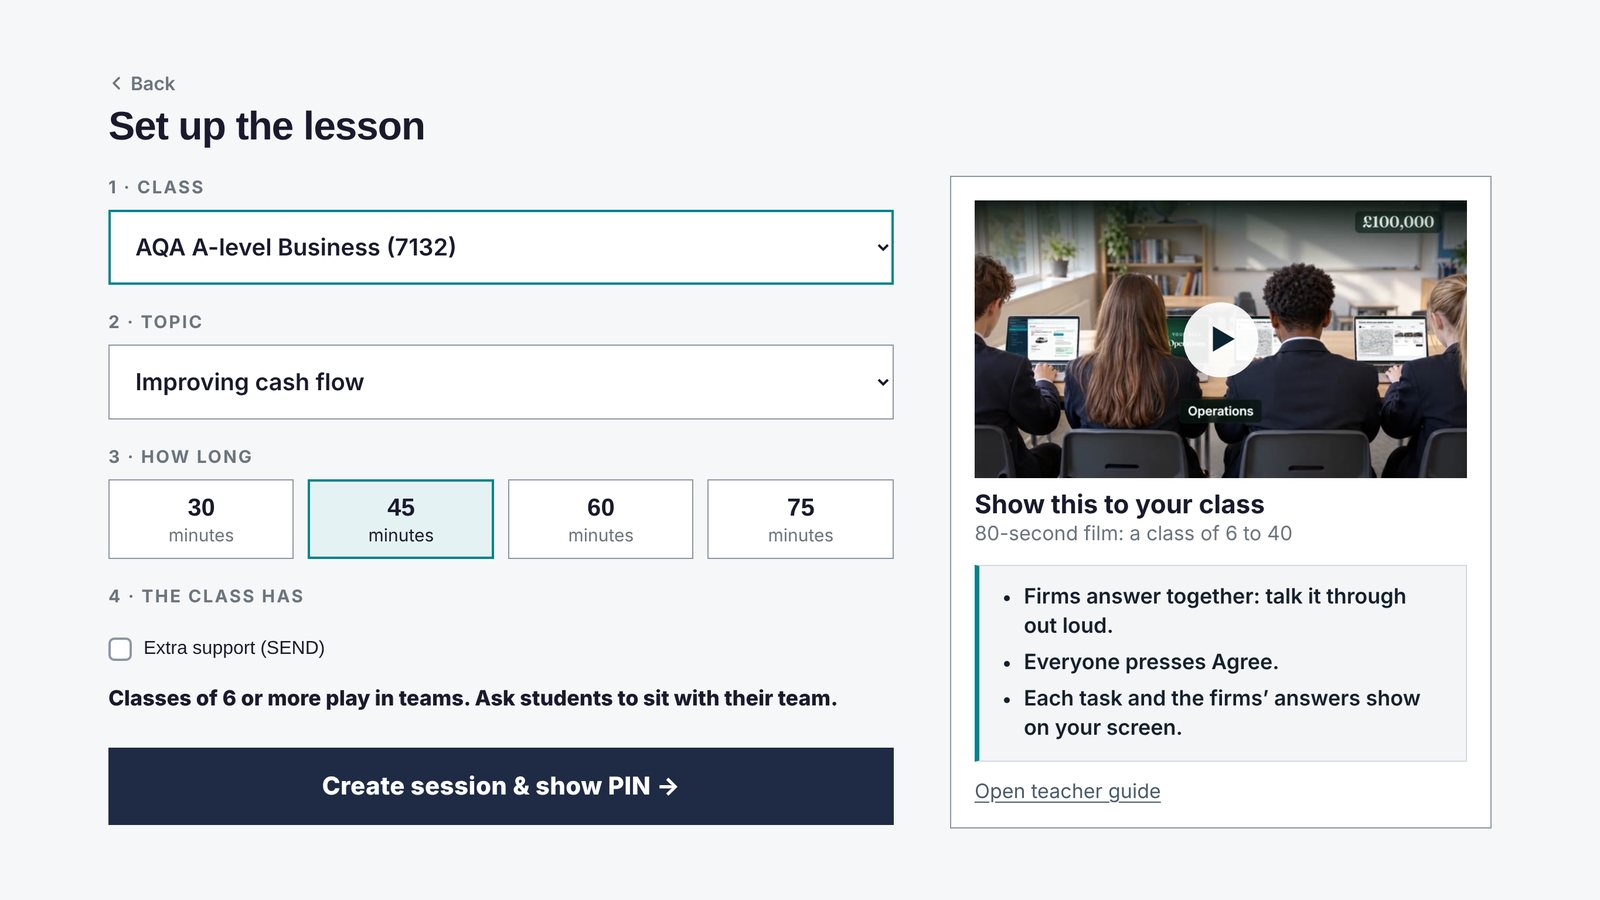
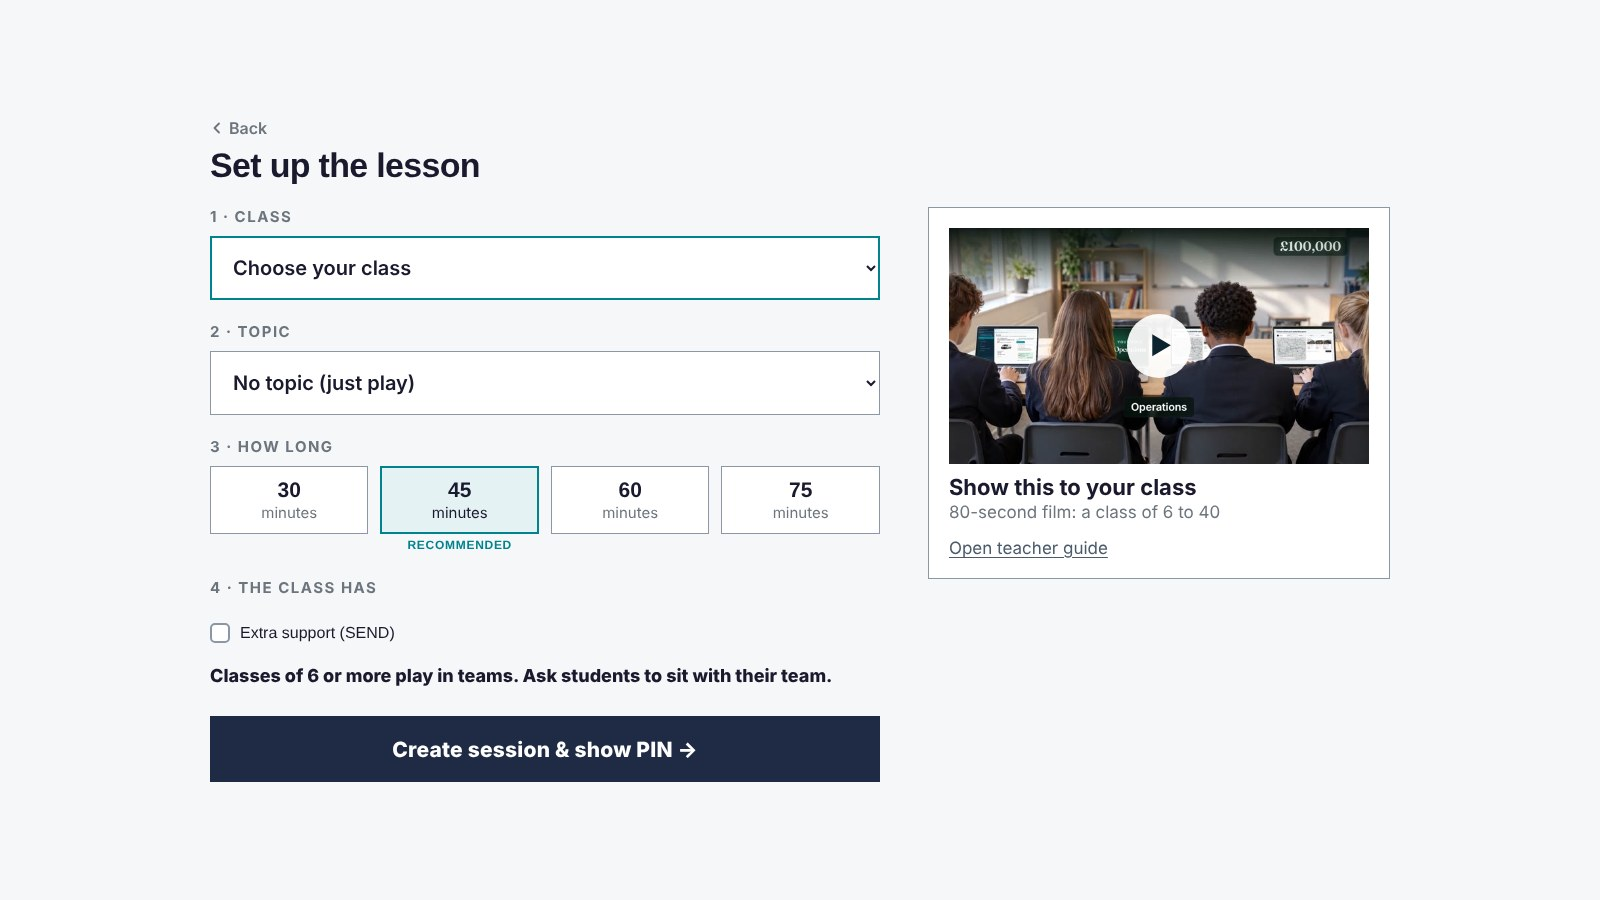
UK: one lesson per topic per class (tasks stay the same), no-topic lessons any time; end-of-lesson writing removed from the gallery and copy; setup picture re-shot from the live game (owner 10.11.2026)
Claude-Session: https://claude.ai/code/session_01Np2n7mwxyzcaQWByNZ1ReD

diff --git a/index.html b/index.html
@@ -640,7 +640,7 @@
         <figcaption>The whole class joins with one PIN.</figcaption>
       </figure>
       <figure class="motor-gal-item">
-        <img src="/assets/tbs-web/uk/uk-g-setup.jpg?v=20261110" width="1600" height="900" loading="lazy" decoding="async" alt="Teacher lesson setup: the class, the topic and the lesson length of 30, 45, 60 or 75 minutes" />
+        <img src="/assets/tbs-web/uk/uk-g-setup.jpg?v=20261110d" width="1600" height="900" loading="lazy" decoding="async" alt="Teacher lesson setup: the class, the topic and the lesson length of 30, 45, 60 or 75 minutes" />
         <figcaption>You pick the class, the topic and the lesson length.</figcaption>
       </figure>
       <figure class="motor-gal-item">
@@ -704,10 +704,6 @@
         <figcaption>Each task and every firm's answer, on your Live screen.</figcaption>
       </figure>
       <figure class="motor-gal-item">
-        <img src="/assets/tbs-web/uk/uk-g-end-writing.jpg?v=20261110" width="1600" height="900" loading="lazy" decoding="async" alt="At the end: after the final questions, one short written answer on the topic, with a Send button" />
-        <figcaption>At the end: final questions, then one short written answer.</figcaption>
-      </figure>
-      <figure class="motor-gal-item">
         <img src="/assets/tbs-web/uk/uk-g-podium.jpg?v=20261110" width="1600" height="900" loading="lazy" decoding="async" alt="The podium at the end: the top three firms and every firm's final net position" />
         <figcaption>At the end the podium shows the winner.</figcaption>
       </figure>
@@ -733,6 +729,7 @@
           <li style="display:flex;gap:12px;font-size:19px;line-height:1.4;color:#16233f;font-weight:500"><svg style="color:#0a6b73;flex:0 0 auto;margin-top:4px" width="22" height="22" viewBox="0 0 24 24" fill="none"><path d="M5 12l4 4L19 7" stroke="currentColor" stroke-width="2.4" stroke-linecap="round" stroke-linejoin="round"/></svg><span>Pick your exam board, level and topic: up to 20 topics, matched to your exam board.</span></li>
           <li style="display:flex;gap:12px;font-size:19px;line-height:1.4;color:#16233f;font-weight:500"><svg style="color:#0a6b73;flex:0 0 auto;margin-top:4px" width="22" height="22" viewBox="0 0 24 24" fill="none"><path d="M5 12l4 4L19 7" stroke="currentColor" stroke-width="2.4" stroke-linecap="round" stroke-linejoin="round"/></svg><span>Each firm gets its own tasks. The firm agrees one answer.</span></li>
           <li style="display:flex;gap:12px;font-size:19px;line-height:1.4;color:#16233f;font-weight:500"><svg style="color:#0a6b73;flex:0 0 auto;margin-top:4px" width="22" height="22" viewBox="0 0 24 24" fill="none"><path d="M5 12l4 4L19 7" stroke="currentColor" stroke-width="2.4" stroke-linecap="round" stroke-linejoin="round"/></svg><span>Your dashboard shows which firms got each task right.</span></li>
+          <li style="display:flex;gap:12px;font-size:19px;line-height:1.4;color:#16233f;font-weight:500"><svg style="color:#0a6b73;flex:0 0 auto;margin-top:4px" width="22" height="22" viewBox="0 0 24 24" fill="none"><path d="M5 12l4 4L19 7" stroke="currentColor" stroke-width="2.4" stroke-linecap="round" stroke-linejoin="round"/></svg><span>Play each topic once with a class: its tasks stay the same. A lesson with no topic can be played any time.</span></li>
         </ul>
         <div style="display:flex;flex-wrap:wrap;gap:12px">
         <a href="/teacher-guides/" style="display:inline-flex;align-items:center;gap:8px;font-weight:700;font-size:16px;padding:13px 24px;border-radius:10px;text-decoration:none;background:#0a6b73;color:#fff">See every lesson topic</a>
@@ -846,7 +843,7 @@
       <p style="color:#40506e;font-size:16.5px">A revision lesson at the end of each topic, or a business activity any time (No topic).</p>
       <p style="color:#40506e;font-size:16.5px;margin-top:10px">The lesson runs step by step. The whole class works on the same step at the same time, and your screen shows how many firms are done.</p>
     </div>
-    <div class="hs-wrap"><div class="hs"><div class="hs-list" role="tablist" aria-label="How a lesson runs"><button class="hs-item" type="button" role="tab" aria-selected="true" data-i="0"><span class="hs-n">01</span><span><span class="hs-t">Students join with a PIN</span><span class="hs-d">You pick the class and the lesson length. The whole class joins with one PIN.</span></span></button><button class="hs-item" type="button" role="tab" aria-selected="false" data-i="1"><span class="hs-n">02</span><span><span class="hs-t">Each firm votes where to open</span><span class="hs-d">Everyone votes. Most votes wins.</span></span></button><button class="hs-item" type="button" role="tab" aria-selected="false" data-i="2"><span class="hs-n">03</span><span><span class="hs-t">Everyone deals</span><span class="hs-d">Students buy, price and negotiate face to face.</span></span></button><button class="hs-item" type="button" role="tab" aria-selected="false" data-i="3"><span class="hs-n">04</span><span><span class="hs-t">Every round, the same order</span><span class="hs-d">Firm decisions, deals with classmates, topic tasks, then a B2B deal between firms.</span></span></button><button class="hs-item" type="button" role="tab" aria-selected="false" data-i="4"><span class="hs-n">05</span><span><span class="hs-t">You see every firm live</span><span class="hs-d">Pause and Stop are one click away.</span></span></button><button class="hs-item" type="button" role="tab" aria-selected="false" data-i="5"><span class="hs-n">06</span><span><span class="hs-t">Questions, then the winner</span><span class="hs-d">Six final questions and one short written answer, then the podium.</span></span></button><button class="hs-item" type="button" role="tab" aria-selected="false" data-i="6"><span class="hs-n">07</span><span><span class="hs-t">Every student gets a report</span><span class="hs-d">You download the class pack.</span></span></button></div><div class="hs-view"><div class="hs-frame"><i class="hs-corner tl"></i><i class="hs-corner tr"></i><i class="hs-corner bl"></i><i class="hs-corner br"></i><div class="hs-stack"><img class="hs-img on" src="/assets/tbs-web/howto/1-join.jpg?v=20261110" alt="Students join with a PIN" width="1100" height="619"><img class="hs-img" src="/assets/tbs-web/howto/2-location.jpg?v=20261110" alt="Each firm votes where to open" loading="lazy" width="1100" height="619"><img class="hs-img" src="/assets/tbs-web/howto/3-deal.jpg?v=20261110" alt="Everyone deals" loading="lazy" width="1100" height="619"><img class="hs-img" src="/assets/tbs-web/howto/3b-margin.jpg?v=20261110" alt="Every round, the same order" loading="lazy" width="1100" height="619"><img class="hs-img" src="/assets/tbs-web/howto/4-teacher.jpg?v=20261110" alt="You see every firm live" loading="lazy" width="1100" height="619"><img class="hs-img" src="/assets/tbs-web/howto/5-winner.jpg?v=20261110" alt="Questions, then the winner" loading="lazy" width="1100" height="619"><img class="hs-img" src="/assets/tbs-web/howto/6-report.jpg?v=20261110" alt="Every student gets a report" loading="lazy" width="1100" height="619"></div><div class="hs-bar"><i></i></div></div><p class="hs-cap" aria-live="polite"></p></div></div></div>
+    <div class="hs-wrap"><div class="hs"><div class="hs-list" role="tablist" aria-label="How a lesson runs"><button class="hs-item" type="button" role="tab" aria-selected="true" data-i="0"><span class="hs-n">01</span><span><span class="hs-t">Students join with a PIN</span><span class="hs-d">You pick the class and the lesson length. The whole class joins with one PIN.</span></span></button><button class="hs-item" type="button" role="tab" aria-selected="false" data-i="1"><span class="hs-n">02</span><span><span class="hs-t">Each firm votes where to open</span><span class="hs-d">Everyone votes. Most votes wins.</span></span></button><button class="hs-item" type="button" role="tab" aria-selected="false" data-i="2"><span class="hs-n">03</span><span><span class="hs-t">Everyone deals</span><span class="hs-d">Students buy, price and negotiate face to face.</span></span></button><button class="hs-item" type="button" role="tab" aria-selected="false" data-i="3"><span class="hs-n">04</span><span><span class="hs-t">Every round, the same order</span><span class="hs-d">Firm decisions, deals with classmates, topic tasks, then a B2B deal between firms.</span></span></button><button class="hs-item" type="button" role="tab" aria-selected="false" data-i="4"><span class="hs-n">05</span><span><span class="hs-t">You see every firm live</span><span class="hs-d">Pause and Stop are one click away.</span></span></button><button class="hs-item" type="button" role="tab" aria-selected="false" data-i="5"><span class="hs-n">06</span><span><span class="hs-t">Questions, then the winner</span><span class="hs-d">Six final questions, then the podium.</span></span></button><button class="hs-item" type="button" role="tab" aria-selected="false" data-i="6"><span class="hs-n">07</span><span><span class="hs-t">Every student gets a report</span><span class="hs-d">You download the class pack.</span></span></button></div><div class="hs-view"><div class="hs-frame"><i class="hs-corner tl"></i><i class="hs-corner tr"></i><i class="hs-corner bl"></i><i class="hs-corner br"></i><div class="hs-stack"><img class="hs-img on" src="/assets/tbs-web/howto/1-join.jpg?v=20261110" alt="Students join with a PIN" width="1100" height="619"><img class="hs-img" src="/assets/tbs-web/howto/2-location.jpg?v=20261110" alt="Each firm votes where to open" loading="lazy" width="1100" height="619"><img class="hs-img" src="/assets/tbs-web/howto/3-deal.jpg?v=20261110" alt="Everyone deals" loading="lazy" width="1100" height="619"><img class="hs-img" src="/assets/tbs-web/howto/3b-margin.jpg?v=20261110" alt="Every round, the same order" loading="lazy" width="1100" height="619"><img class="hs-img" src="/assets/tbs-web/howto/4-teacher.jpg?v=20261110" alt="You see every firm live" loading="lazy" width="1100" height="619"><img class="hs-img" src="/assets/tbs-web/howto/5-winner.jpg?v=20261110" alt="Questions, then the winner" loading="lazy" width="1100" height="619"><img class="hs-img" src="/assets/tbs-web/howto/6-report.jpg?v=20261110" alt="Every student gets a report" loading="lazy" width="1100" height="619"></div><div class="hs-bar"><i></i></div></div><p class="hs-cap" aria-live="polite"></p></div></div></div>
     <div style="display:flex;gap:14px;justify-content:center;flex-wrap:wrap;margin-top:8px">
       <a href="/trial/" style="display:inline-block;background:#0a6b73;color:#fff;font-weight:700;border-radius:12px;padding:19px 38px;text-decoration:none;font-size:20px;box-shadow:0 8px 24px rgba(10,107,115,.35)">Request a trial</a>
       <a href="https://play.thebusiness.school/demo/group-classroom/" style="display:inline-block;background:#fff;color:#0e2038;border:1px solid #c9d3df;font-weight:700;border-radius:12px;padding:19px 30px;text-decoration:none;font-size:18px">Try the Teacher Demo</a>
@@ -876,7 +873,7 @@
       <div style="padding:28px;border:1px solid #e3e9f1;border-radius:12px;background:#fff">
         <span style="font-size:11px;font-weight:700;letter-spacing:.1em;text-transform:uppercase;color:#0a6b73">Own words</span>
         <h4 style="font-weight:700;font-size:16.5px;color:#0e2038;margin:8px 0 6px">What they wrote</h4>
-        <p style="font-size:14.5px;color:#40506e">Their written answers from the lesson and their reflection at the end.</p>
+        <p style="font-size:14.5px;color:#40506e">Their firm's answers to the topic tasks.</p>
       </div>
     </div>
   </div>

diff --git a/pricing/index.html b/pricing/index.html
@@ -105,6 +105,7 @@
         <h2 style="font-family:'Fraunces',Georgia,serif;font-weight:600;font-size:clamp(24px,2.9vw,32px);color:#0e2038;line-height:1.15;letter-spacing:-.01em;margin-bottom:16px">What every licence includes</h2>
         <ul style="list-style:none;display:flex;flex-direction:column;gap:13px">
           <li style="display:flex;gap:11px;font-size:15.5px;color:#40506e"><svg style="color:#0a6b73;flex:0 0 auto;margin-top:3px" width="18" height="18" viewBox="0 0 24 24" fill="none"><path d="M5 12l4 4L19 7" stroke="currentColor" stroke-width="2.4" stroke-linecap="round" stroke-linejoin="round"/></svg><span>Unlimited sessions and classes, up to 40 students per session</span></li>
+          <li style="display:flex;gap:11px;font-size:15.5px;color:#40506e"><svg style="color:#0a6b73;flex:0 0 auto;margin-top:3px" width="18" height="18" viewBox="0 0 24 24" fill="none"><path d="M5 12l4 4L19 7" stroke="currentColor" stroke-width="2.4" stroke-linecap="round" stroke-linejoin="round"/></svg><span>Each topic is played once with a class (its tasks stay the same); a lesson with no topic can be played any time</span></li>
           <li style="display:flex;gap:11px;font-size:15.5px;color:#40506e"><svg style="color:#0a6b73;flex:0 0 auto;margin-top:3px" width="18" height="18" viewBox="0 0 24 24" fill="none"><path d="M5 12l4 4L19 7" stroke="currentColor" stroke-width="2.4" stroke-linecap="round" stroke-linejoin="round"/></svg><span>A private report and a certificate of completion for each student, and a class report that you download; assessment stays with the teacher</span></li>
           <li style="display:flex;gap:11px;font-size:15.5px;color:#40506e"><svg style="color:#0a6b73;flex:0 0 auto;margin-top:3px" width="18" height="18" viewBox="0 0 24 24" fill="none"><path d="M5 12l4 4L19 7" stroke="currentColor" stroke-width="2.4" stroke-linecap="round" stroke-linejoin="round"/></svg><span>Knowledge Check questions at Level 2 and Level 3, each shown with its topic in the class report</span></li>
           <li style="display:flex;gap:11px;font-size:15.5px;color:#40506e"><svg style="color:#0a6b73;flex:0 0 auto;margin-top:3px" width="18" height="18" viewBox="0 0 24 24" fill="none"><path d="M5 12l4 4L19 7" stroke="currentColor" stroke-width="2.4" stroke-linecap="round" stroke-linejoin="round"/></svg><span>A free trial lesson before any commitment</span></li>
